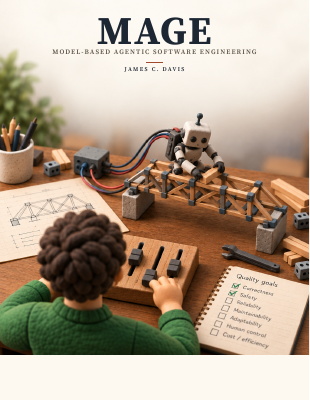
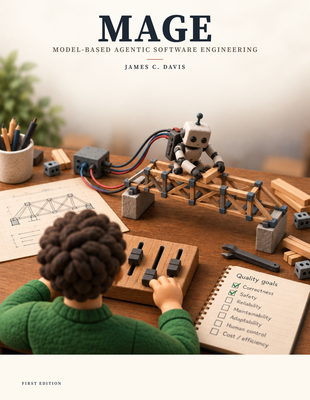
books: cover fit r2 — FIRST EDITION colophon on both; Handbook artwork bleeds edge-to-edge; identical image window

diff --git a/book/book_typst.py b/book/book_typst.py
@@ -2499,9 +2499,17 @@ def _cover_typst() -> str:
     sampled from the artwork's own top band, the claymation workshop artwork
     (`book/assets/cover-artwork.png`, 1024x1536 — the engineer at the control board directing a robot
     building a truss bridge, the "Quality goals" notebook at hand), and native Typst typography in the
-    artwork's top cream field. All text is live type; nothing textual is rasterized. The art spans the
-    full page width (12.75in tall at 8.5in wide), shifted up so the page trims expendable top cream and
-    a sliver of the bottom edge — every prop (engineer, control board, robot, bridge, notebook) stays.
+    artwork's top cream field. All text is live type; nothing textual is rasterized.
+
+    SHARED IMAGE-WINDOW TEMPLATE (one template, two illustrations — identical on both covers):
+    a full-width art window, 8.5in x 9.75in, pinned to the page top and CLIPPED; the artwork keeps its
+    natural aspect at page width (here 12.75in tall) and shifts up inside the window so the window
+    trims expendable top cream and picks the 9.75in slice that keeps every prop (engineer, control
+    board, robot, bridge, notebook). Below the window the page ground shows as a 1.25in LOWER CREAM
+    BAND — the shared edition band — carrying the `FIRST EDITION` colophon bottom-left (same face
+    vocabulary as the author line but smaller and quieter; cover-ink, never the rust accent; identical
+    dx 0.6in / dy -0.42in inset on both covers). The internal subjects need not align across covers;
+    the window geometry, band height, colophon inset, and type top margin (0.42in) must.
 
     MATCHED-PAIR CONTRACT (shared with `handbook/typst/cover.typ`): the two covers set the same
     typographic system — display serif (Source Serif 4) throughout; one DOMINANT bold caps word (here
@@ -2509,7 +2517,8 @@ def _cover_typst() -> str:
     expansion of the acronym, reading below it); an identical author block (short terracotta hairline
     rule, then the name in tracked caps); all text centered in the top cream field, the artwork's own
     cream→scene fade doing the compositional work (no panel, box, or gradient behind the type). Change
-    one cover's treatment only in step with the other. No cover furniture: no eyebrow/kicker, edition,
+    one cover's treatment only in step with the other. No cover furniture beyond the shared
+    `FIRST EDITION` colophon in the lower cream band: no eyebrow/kicker, edition NUMBER or year,
     dates, marks, or taglines.
 
     The dominant word and the expansion line read from the manifest (`cover_display_title` + `title`),
@@ -2525,18 +2534,21 @@ def _cover_typst() -> str:
     cover_img = _root_rel(HERE / "assets" / "cover-artwork.png", _EmitCtx.root)
     return (
         "// LAYERED LIGHT cover: cream ground (sampled from the art's top band) -> full-width claymation\n"
-        "// artwork, shifted up to trim expendable top cream -> centered live-type lockup in the cream field.\n"
+        "// artwork in the shared 9.75in clipped window -> centered live-type lockup in the cream field\n"
+        "// -> 1.25in lower cream band with the FIRST EDITION colophon (shared template with the Handbook).\n"
         "// The imprint line + date move to the copyright page that follows.\n"
         "#let cover-cream = rgb(\"#FDF8F0\")  // artwork top-band mean\n"
-        "#let cover-ink = rgb(\"#1D2733\")    // deep charcoal-navy (dominant title, author)\n"
+        "#let cover-ink = rgb(\"#1D2733\")    // deep charcoal-navy (dominant title, author, colophon)\n"
         "#let cover-muted = rgb(\"#5B5346\")  // warm gray-brown (expansion line)\n"
         "#let cover-accent = rgb(\"#9E4A2F\") // terracotta (author rule)\n"
         '#page(paper: "us-letter", margin: 0pt, numbering: none, header: none, footer: none, '
         "fill: cover-cream)[\n"
-        # Art: 8.5in wide -> 12.75in tall; dy -1.25in trims 150px of top cream and lets 60px bleed past
-        # the page bottom (the desk edge below the Quality-goals notebook), keeping the notebook whole.
-        f'  #place(top + left, dy: -1.25in, image("{cover_img}", width: 100%))\n'
-        "  #place(top + center, dy: 0.5in, block(width: 7.5in)[\n"
+        # SHARED WINDOW: art at natural aspect (8.5in x 12.75in for the 1024x1536 raster), shifted up
+        # dy -2.125in inside the clipped 9.75in window: trims 256px of expendable top cream, shows
+        # raster rows 256-1431, keeps every prop. Rows below 9.75in are the page-cream edition band.
+        "  #place(top + left, box(width: 8.5in, height: 9.75in, clip: true, "
+        f'place(top + left, dy: -2.125in, image("{cover_img}", width: 8.5in, height: 12.75in))))\n'
+        "  #place(top + center, dy: 0.42in, block(width: 7.5in)[\n"
         "    #align(center)[\n"
         "      #text(font: dt.font-display, size: 78pt, weight: 700, tracking: 0.03em, "
         f"fill: cover-ink)[{display_word}]\n"
@@ -2550,6 +2562,11 @@ def _cover_typst() -> str:
         f"fill: cover-ink)[{author}]\n"
         "    ]\n"
         "  ])\n"
+        # FIRST EDITION colophon — bottom-left of the lower cream band. Same tracked-caps vocabulary
+        # as the author line but smaller and quieter; cover-ink, never the accent. The 8pt/0.22em/
+        # dx 0.6in/dy -0.42in values are the SHARED template constants (mirror handbook/typst/cover.typ).
+        "  #place(bottom + left, dx: 0.6in, dy: -0.42in, text(font: dt.font-display, size: 8pt, "
+        "weight: 500, tracking: 0.22em, fill: cover-ink)[FIRST EDITION])\n"
         "]"
     )
 
